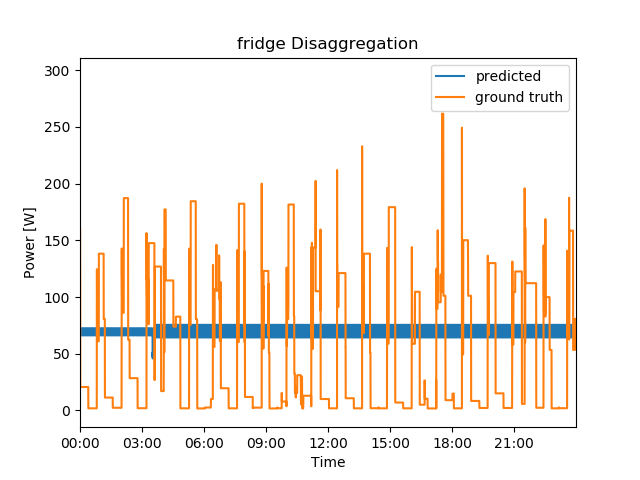
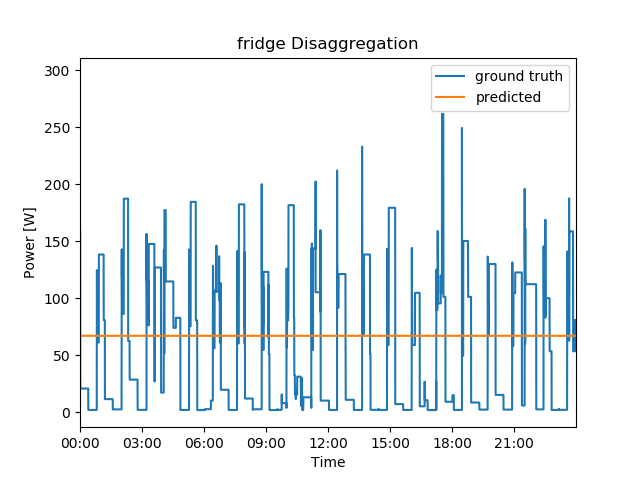
fix

diff --git a/DAE/training_dae.py b/DAE/training_dae.py
@@ -33,7 +33,7 @@ else:
 DATASET = '../data/ENEA/enea.h5'
 MODEL = '../data/ENEA/model-dae-' + APPLIANCE + 'enea.h5'
 DISAG = '../data/ENEA/disag-dae-' + APPLIANCE + 'out.h5'
-UKDALE_MODEL = '../data/UKDALE/dae-ukdale.h5' # Vale solo per il frigorifero per ora
+UKDALE_MODEL = '../data/UKDALE/dae-fridge-ukdale.h5' # Vale solo per il frigorifero per ora
 TRAIN_BUILDING = 1
 TEST_BUILDING = 1
 SEQUENCE = 256
@@ -78,16 +78,16 @@ ground_truth = test_elec[APPLIANCE]
 
 fig = plt.figure()
 ax = plt.subplot(111)
-ax.plot(predicted.power_series_all_data(), label='predicted')
 ax.plot(ground_truth.power_series_all_data(), label='ground truth')
-plt.xlim('2017-10-08 00:00:00', '2017-10-08 23:59:59')
+ax.plot(predicted.power_series_all_data(), label='predicted')
+#plt.xlim('2017-10-08 00:00:00', '2017-10-08 23:59:59')
 plt.xlabel('Time')
 plt.ylabel('Power [W]')
 plt.title(APPLIANCE + ' Disaggregation')
 myFmt = mdates.DateFormatter('%H:%M')
 ax.xaxis.set_major_formatter(myFmt)
 ax.legend()
-plt.savefig(APPLIANCE + "_dae.png")
+plt.savefig(APPLIANCE + "_dae2.png")
 
 
 import metrics
